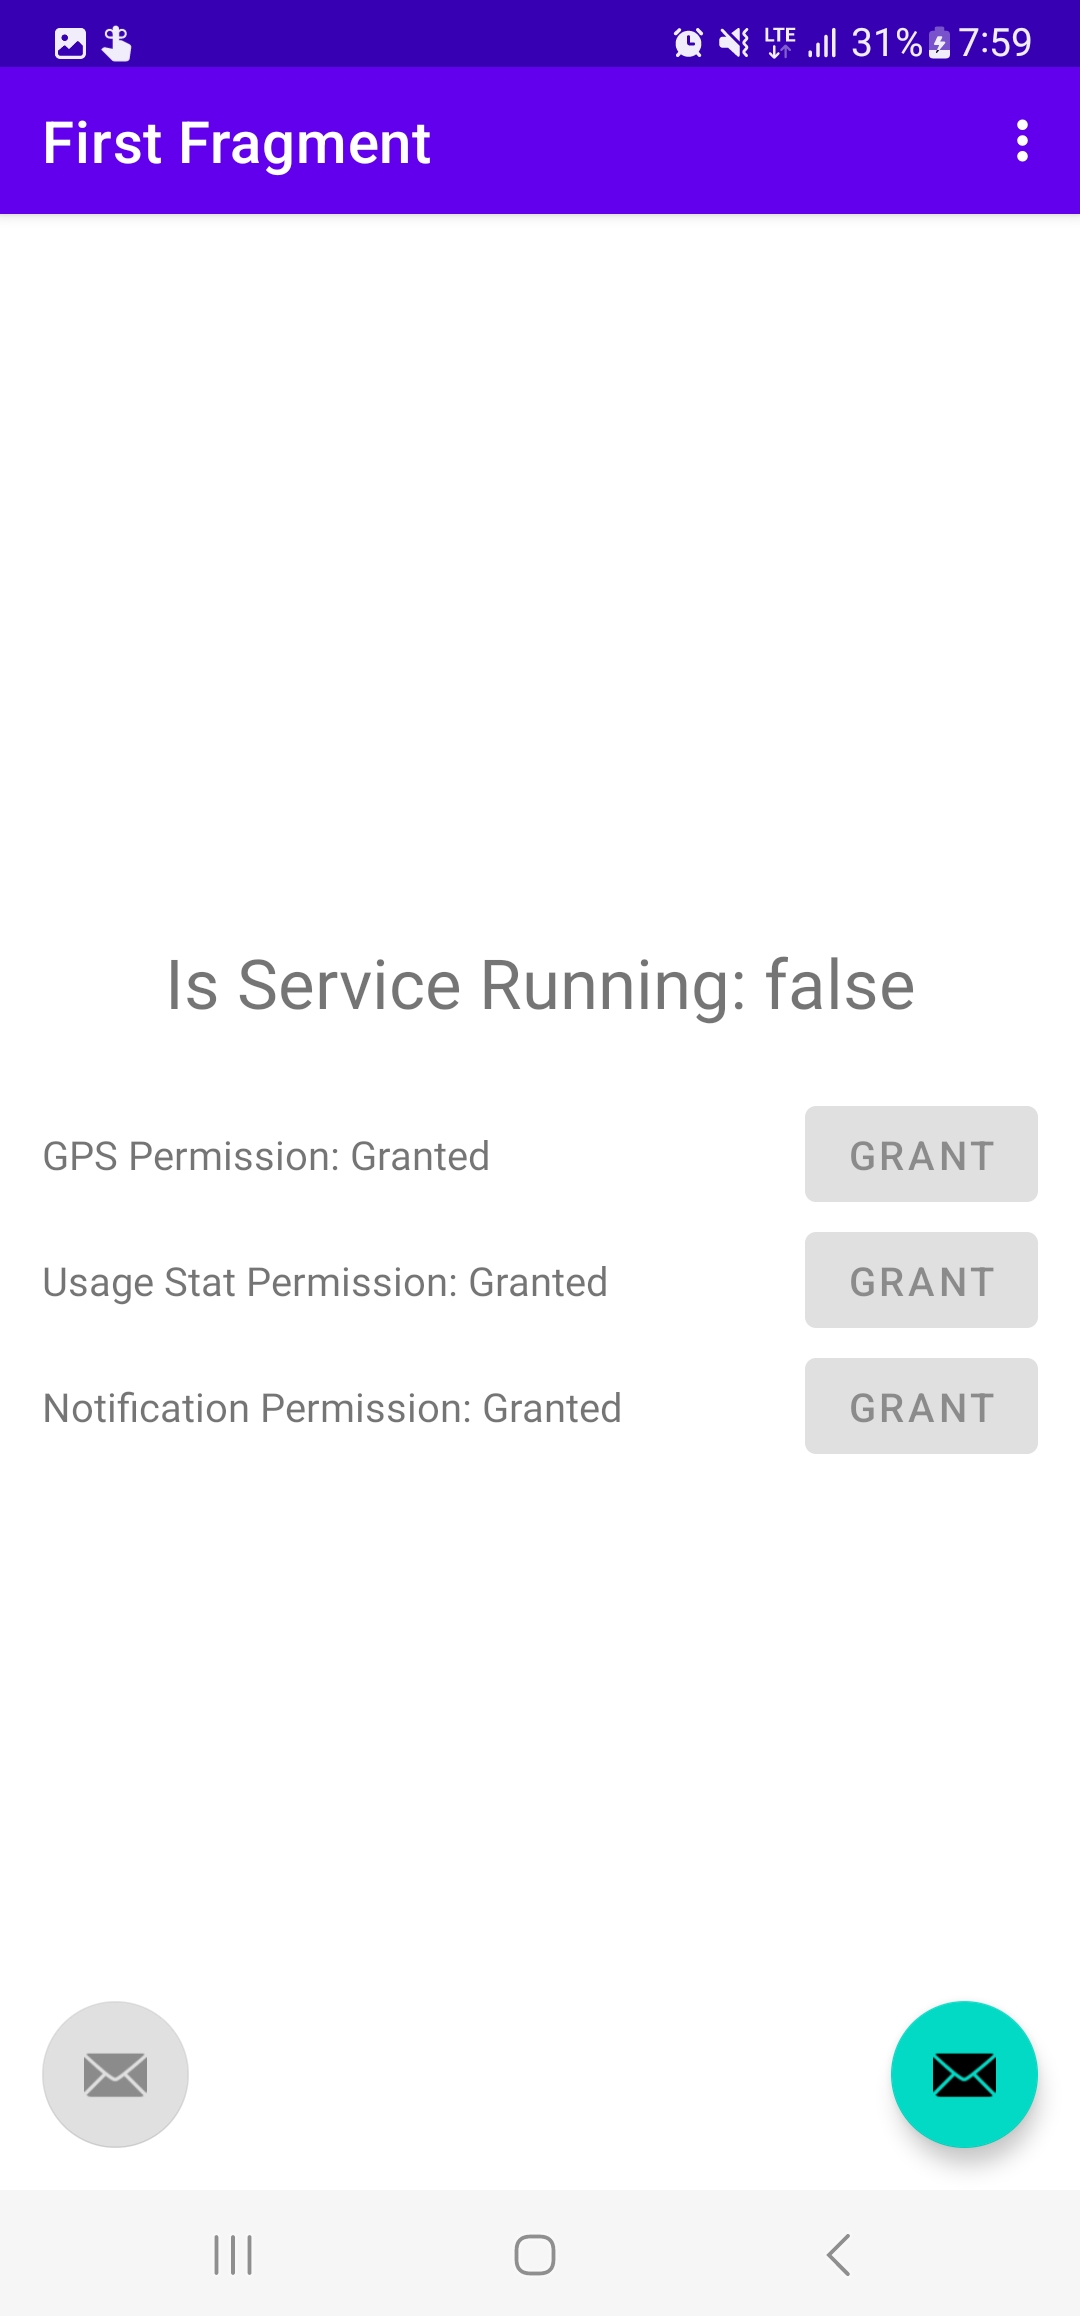
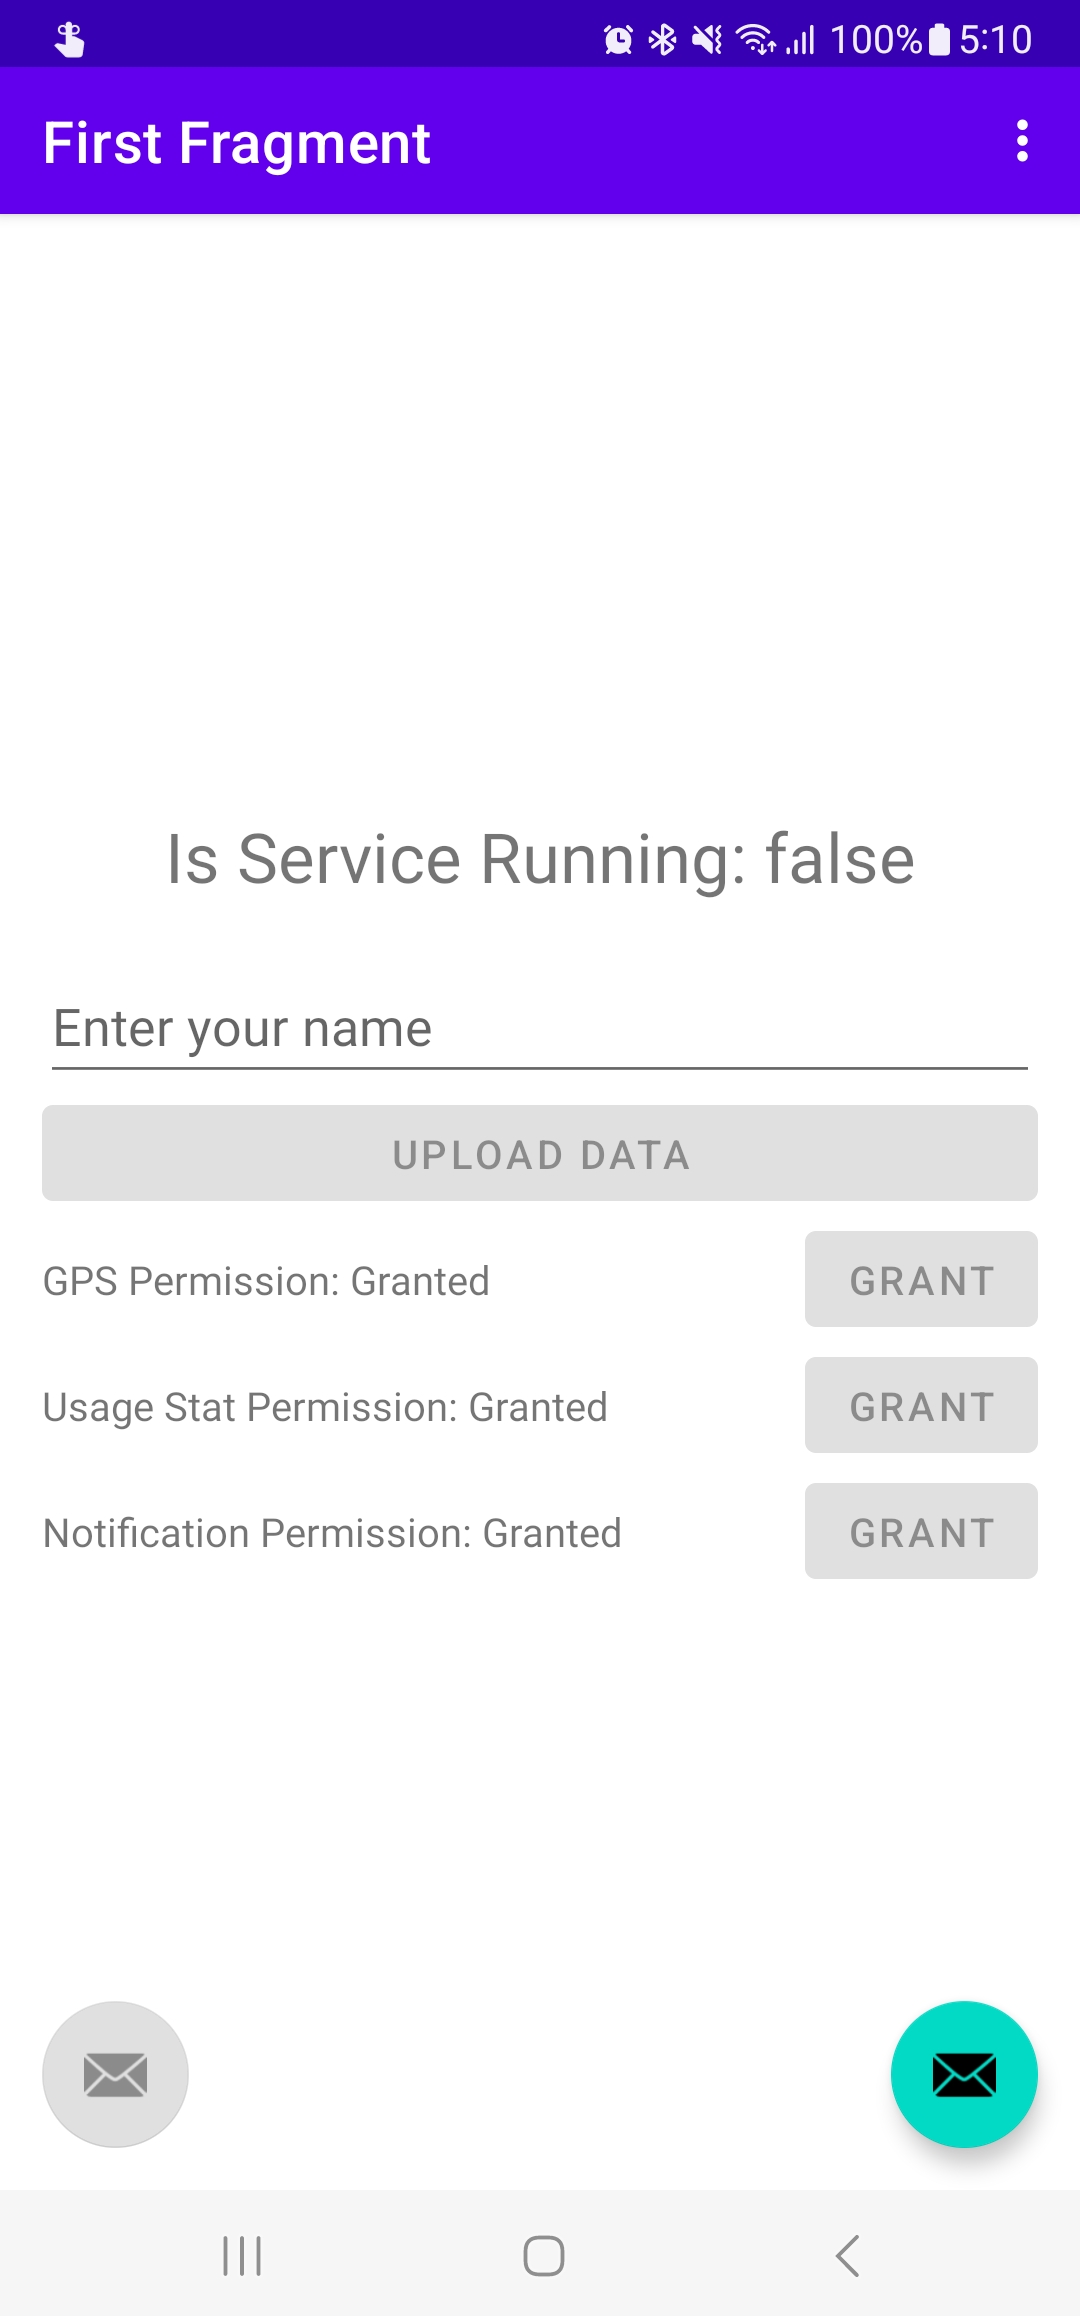
UX updated more user-friendly.

diff --git a/app/src/main/java/com/example/userdeviceprofiler/FirstFragment.kt b/app/src/main/java/com/example/userdeviceprofiler/FirstFragment.kt
@@ -1,6 +1,4 @@
 package com.example.userdeviceprofiler
-import java.text.SimpleDateFormat
-import java.util.*
 import android.annotation.SuppressLint
 import android.content.Context
 import android.content.Intent
@@ -9,15 +7,16 @@ import android.os.Bundle
 import android.provider.Settings
 import android.text.Editable
 import android.text.TextWatcher
-import androidx.fragment.app.Fragment
 import android.view.LayoutInflater
 import android.view.View
 import android.view.ViewGroup
-import android.view.inputmethod.EditorInfo
 import android.view.inputmethod.InputMethodManager
-import androidx.core.content.ContextCompat.getSystemService
+import android.widget.Toast
+import androidx.fragment.app.Fragment
 import androidx.navigation.fragment.findNavController
 import com.example.userdeviceprofiler.databinding.FragmentFirstBinding
+import java.text.SimpleDateFormat
+import java.util.*
 
 /**
  * A simple [Fragment] subclass as the default destination in the navigation.
@@ -54,11 +53,16 @@ class FirstFragment : Fragment() {
         }
 
         binding.uploadDataButton.setOnClickListener {
+            if (ProfilerService.IS_RUNNING) {
+                Toast.makeText(requireContext(), "Please stop the profiler first", Toast.LENGTH_SHORT).show()
+                return@setOnClickListener
+            }
+
             binding.uploadDataButton.isEnabled = false
             binding.nameTextField.clearFocus()
             hideKeyboard()
-
             uploadData()
+            binding.nameTextField.text.clear()
         }
 
         binding.nameTextField.addTextChangedListener(object : TextWatcher {
@@ -77,20 +81,31 @@ class FirstFragment : Fragment() {
             }
         })
 
+        binding.fragmentFirst.setOnTouchListener { view, motionEvent ->
+            hideKeyboard()
+            binding.nameTextField.clearFocus()
+
+            false
+        }
+
         return binding.root
     }
 
     private fun hideKeyboard() {
-        val inputMethodManager = requireActivity().getSystemService(Context.INPUT_METHOD_SERVICE) as InputMethodManager
-        inputMethodManager.hideSoftInputFromWindow(binding.nameTextField.windowToken, 0)
+        if (activity != null && requireActivity().currentFocus != null) {
+            val inputManager = requireActivity().getSystemService(Context.INPUT_METHOD_SERVICE) as InputMethodManager
+            inputManager.hideSoftInputFromWindow(
+                requireActivity().currentFocus!!.windowToken,
+                InputMethodManager.HIDE_NOT_ALWAYS
+            )
+        }
     }
-
     @SuppressLint("SetTextI18n")
     fun updateIsRunning(started: Boolean) {
         binding.isServiceRunning.text = "Is Service Running: $started"
     }
 
-    fun uploadData() {
+    private fun uploadData() {
         val uploader = CsvZipUploader()
         val name = binding.nameTextField.text.toString()
         val dateFormat = SimpleDateFormat("MMdd_HHmmss", Locale.getDefault())
@@ -155,6 +170,10 @@ class FirstFragment : Fragment() {
         val usageStatGranted = activity.isUsageStatPermissionGranted(activity.applicationContext)
 
         updatePermissionStatus(gpsGranted, notificationGranted, usageStatGranted)
+
+        if (!gpsGranted && !notificationGranted && !usageStatGranted) {
+            binding.uploadDataButton.isEnabled = false
+        }
     }
 
     @SuppressLint("SetTextI18n")

diff --git a/README.md b/README.md
@@ -36,7 +36,8 @@ UserDeviceProfiler 안내
 
 ## 3. 사용방법
 > ### 주의 사항
-> 현재 로컬에 모든 정보를 저장하도록 되어있습니다. 하루에 대략 200mb 정도의 데이터가 수집되므로, 로컬에 저장할 수 있는 용량이 충분한지 확인해주세요. 용량이 충분하지 않다면, 컴퓨터에 연결하여 데이터를 옮겨주시거나, 오랜 사용은 권장하지 않습니다.
+> 1. 하루에 한 번 정도 업로드 버튼을 눌러주세요. 만약 업로드를 시도했는데, 업로드에 성공했다는 메시지가 나오지 않는다면, yujin_shin@yonsei.ac.kr로 리포트 부탁드립니다.
+> 2. 업로드 할 때는 반드시 기록을 종료하고 업로드 부탁드립니다. 또한, 업로드 시 이름은 반드시 일관되게 올려주시기 부탁드립니다.
 
 - 앱을 실행하면 다음과 같은 화면이 나옵니다.
 
